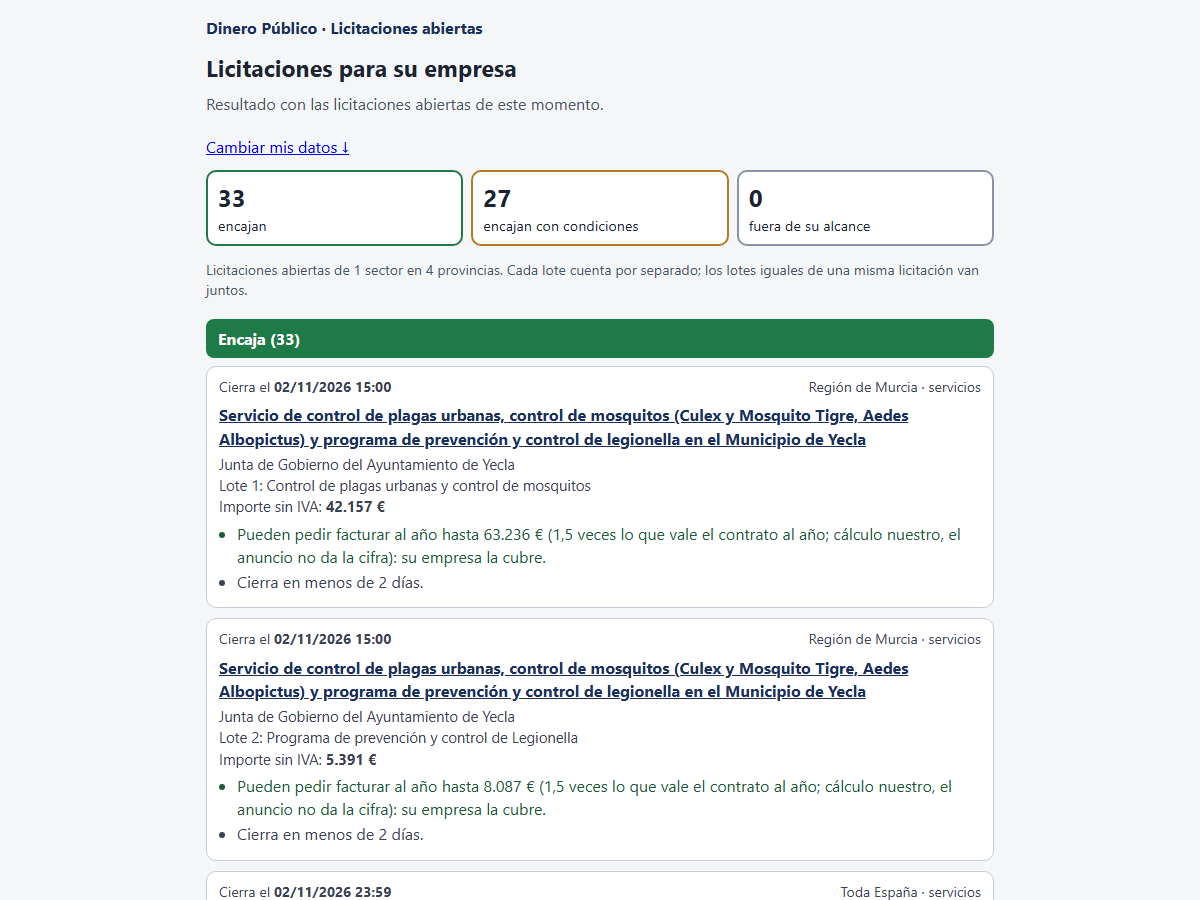
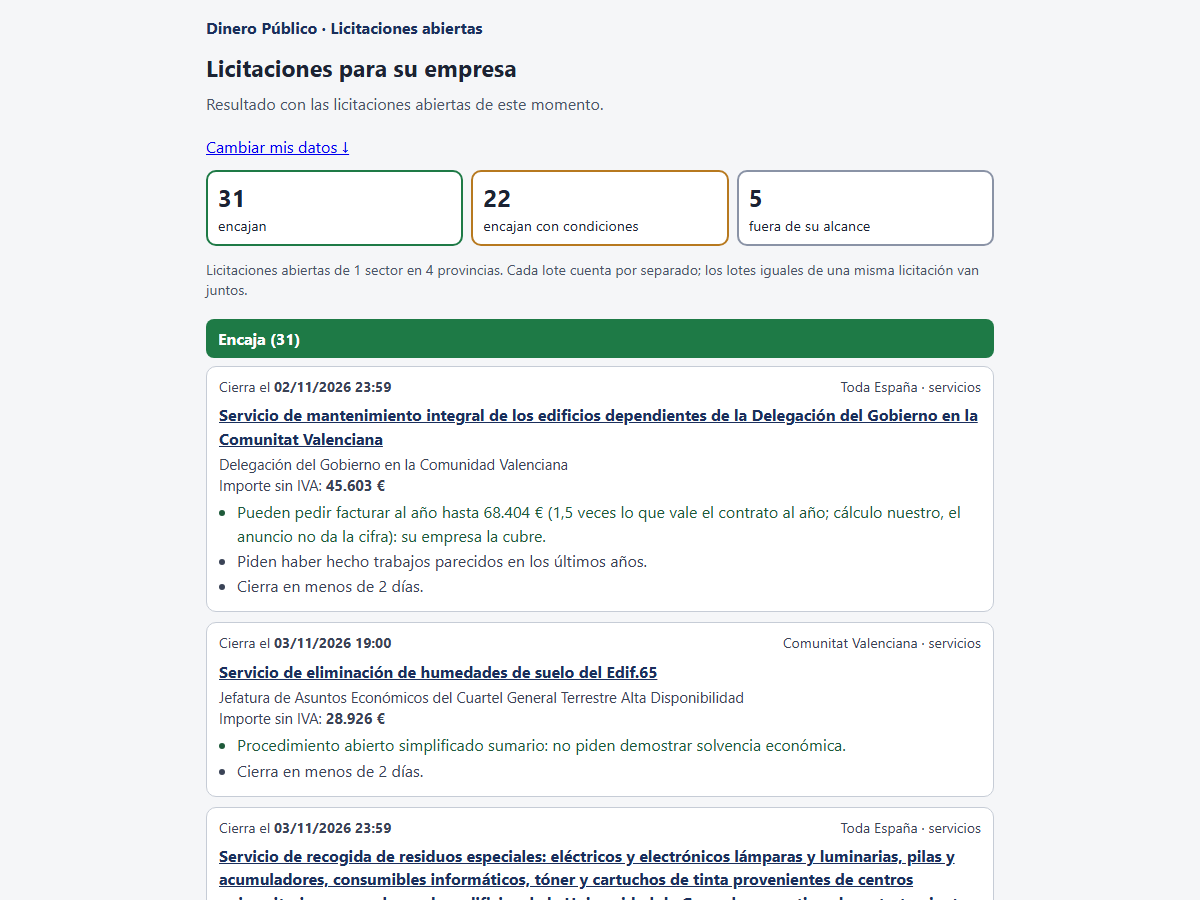
Embudo: «Desproporcionado (estimación nuestra)» a 0,75 x VAM y «El anuncio exige X €»
Sin cifra en el anuncio, si la facturación no llega ni a la mitad del
máximo legal, fuera de alcance con etiqueta y referencia a UTE / art. 75
LCSP. Con cifra, fuera con «El anuncio exige X €» y la desproporción no se
aplica. Pruebas (46), informe (§2 ter) y capturas.

Changed region(s): [[0.185, 0.4044, 0.8325, 1.0]]

diff --git a/backend/filtro_embudo.py b/backend/filtro_embudo.py
@@ -19,8 +19,9 @@ Criterios (la página los explica en lenguaje llano, ver CRITERIOS_HTML):
    anual medio (VAM) del contrato. VAM = presupuesto sin IVA del lote o del contrato / duración en años (mínimo 1).
    Si el anuncio trae la cifra exigida (ThresholdQuantity), manda esa. Facturación por tramos: si el límite bajo del
    tramo ya llega -> encaja; en medio -> CON CONDICIONES. Si ni el límite alto llega: FUERA DE ALCANCE solo cuando la
-   cifra viene del anuncio; si es el tope legal calculado por nosotros, CON CONDICIONES (el pliego puede pedir menos;
-   decisión de César, 02-11-2026). Abierto
+   cifra viene del anuncio ("El anuncio exige X €"); si es el tope legal calculado por nosotros, CON CONDICIONES (el
+   pliego puede pedir menos), salvo que no llegue ni a la mitad del tope (0,75 x VAM): FUERA DE ALCANCE con la
+   etiqueta "Desproporcionado (estimación nuestra)" (decisiones de César, 02-11-2026). Abierto
    simplificado sumario (art. 159.6 LCSP) no pide solvencia. Clasificación que cubre la exigida sustituye a la
    solvencia.
 3. Obras de valor estimado >= 500.000 EUR (art. 77.1.a LCSP): sin clasificación -> CON CONDICIONES "requiere
@@ -48,6 +49,9 @@ FUERA = "FUERA DE ALCANCE"
 GRUPOS = (ENCAJA, CONDICIONES, FUERA)
 MAX_FICHAS = 60                          # por grupo en la página (las demás se cuentan)
 DIAS_AVISO_CIERRE = 2                    # "cierra pronto" si quedan menos de estos días
+# Sin cifra en el anuncio: fuera de alcance si la facturación no llega ni a la mitad del máximo legal (0,75 x VAM)
+FACTOR_DESPROPORCION = F.FACTOR_SOLVENCIA / 2
+DESPROPORCIONADO = "Desproporcionado (estimación nuestra)"
 
 # Tramos de facturación: los mismos cortes que el motor (60.000 es el del sumario)
 TRAMOS_FACTURACION = F.TRAMOS_FACTURACION
@@ -194,6 +198,7 @@ def evaluar(lic, perfil, ahora):
         if perfil["importe_max"] is not None and importe > perfil["importe_max"]:
             continue
         fuera, cond, avisos, bien = [], [], [], []
+        etiqueta = ""
         vam = importe / anios
         req = dict(req_c, **req_l) if req_l else dict(req_c)
         if con_lotes and "umbral_eco" not in req_l:
@@ -232,7 +237,13 @@ def evaluar(lic, perfil, ahora):
         elif lo_f >= exigida:
             bien.append(pide + ": su empresa la cubre.")
         elif hi_f < exigida and umbral:
-            fuera.append(pide + ": su empresa no llega.")
+            fuera.append(f"El anuncio exige {F.eur(umbral)} de facturación anual: su empresa no llega.")
+        elif not umbral and hi_f < FACTOR_DESPROPORCION * vam:
+            # sin cifra en el anuncio, ni con la mitad del máximo legal llegaría (decisión de César, 02-11-2026)
+            etiqueta = DESPROPORCIONADO
+            fuera.append(f"Aunque el pliego pidiera la mitad del máximo legal ({F.eur(FACTOR_DESPROPORCION * vam)} "
+                         "al año), su empresa no llegaría; solo sería viable en UTE o apoyándose en la solvencia de "
+                         "otra empresa (art. 75 LCSP).")
         elif hi_f < exigida:
             # sin la cifra del anuncio solo sabemos el tope legal: el pliego puede pedir menos
             cond.append(pide + ": su empresa no llega a ese tope, pero puede que el pliego pida menos: revise la "
@@ -264,7 +275,7 @@ def evaluar(lic, perfil, ahora):
             "lote": (lote or {}).get("id"), "titulo_lote": (lote or {}).get("titulo"),
             "importe": importe, "vam": round(vam), "solvencia_exigida": round(exigida),
             "solvencia_del_anuncio": bool(umbral), "sumario": sumario,
-            "fuera": fuera, "condiciones": cond, "avisos": avisos, "bien": bien,
+            "etiqueta": etiqueta, "fuera": fuera, "condiciones": cond, "avisos": avisos, "bien": bien,
             # para F.agrupar_lotes (lotes iguales de una misma licitación en una sola ficha)
             "motivos": fuera + cond + avisos + bien,
         })
@@ -328,6 +339,7 @@ color:#fff;cursor:pointer}
 .ficha h3 a{color:#1b2f5c}
 .ficha ul{margin:4px 0 4px 18px;padding:0}.ficha li{margin:2px 0}
 .ficha .dato{font-size:.92rem;color:#3a4356}
+.etiqueta{display:inline-block;margin:6px 0 0;padding:1px 8px;border:1px solid #9b2c2c;border-radius:4px;color:#9b2c2c;font-size:.82rem;font-weight:700}
 li.no{color:#9b2c2c}li.cond{color:#8a5a12;font-weight:600}li.aviso{color:#3a4356}li.ok{color:#1e5a3a}
 details{margin:0 0 12px}summary{cursor:pointer;font-weight:700;padding:8px 0}
 .criterios{background:#fff;border:1px solid #d9dde5;border-radius:10px;padding:4px 14px;font-size:.93rem}
@@ -350,7 +362,9 @@ contrato entero no.</li>
 contrato al año (art. 87.3.a de la Ley de Contratos del Sector Público). Si el anuncio dice la cifra exacta, usamos
 esa. Si su facturación no llega ni en lo más alto de su tramo a la cifra que dice el anuncio, la licitación queda
 <b>fuera de alcance</b>. Si el anuncio no da la cifra, solo sabemos el máximo que permite la ley y el pliego puede
-pedir menos: entonces <b>encaja con condiciones</b> («revise la solvencia»). También si la cifra está dentro de su
+pedir menos: entonces <b>encaja con condiciones</b> («revise la solvencia»), salvo que su empresa no llegue ni a la
+mitad de ese máximo: entonces queda <b>fuera de alcance</b> con la etiqueta «Desproporcionado (estimación nuestra)»,
+porque solo sería viable en UTE o apoyándose en la solvencia de otra empresa (art. 75 de la misma ley). También si la cifra está dentro de su
 tramo. En el procedimiento simplificado sumario no se pide solvencia.</li>
 <li><b>Clasificación de contratista</b>: en obras de 500.000 € o más es obligatoria (art. 77 de la misma ley). Si no la
 tiene, se la enseñamos igual como <b>«encaja con condiciones: requiere clasificación»</b>, porque puede pedirla o ir
@@ -507,7 +521,8 @@ def _ficha_html(r):
               if r.get("url", "").startswith("https://") else _e(r["titulo"]))
     return (f'<div class="ficha"><div class="cab"><span>Cierra el <b>{_fecha(r["fin_plazo"])}</b></span>'
             f'<span>{_e(lugar)}{" · " + _e(tipo) if tipo else ""}</span></div>'
-            f'<h3>{enlace}</h3>'
+            + (f'<div class="etiqueta">{_e(r["etiqueta"])}</div>' if r.get("etiqueta") else "")
+            + f'<h3>{enlace}</h3>'
             f'<div class="dato">{_e(r["organo"])}</div>'
             + (f'<div class="dato">{lote}</div>' if lote else "")
             + f'<div class="dato">Importe sin IVA: <b>{F.eur(r["importe"])}</b>'

diff --git a/backend/filtro_embudo_prueba.py b/backend/filtro_embudo_prueba.py
@@ -78,8 +78,19 @@ ok(grupo(lic(presupuesto=150_000)) == E.CONDICIONES, "VAM 150k -> exige 225k, de
 r = E.evaluar(lic(presupuesto=250_000), perfil(), AHORA)[0]
 ok(r["grupo"] == E.CONDICIONES and not r["fuera"] and "revise la solvencia" in r["condiciones"][0],
    "VAM 250k, tope legal 375k > 300k pero el anuncio no da la cifra: con condiciones, «revise la solvencia»")
-ok(grupo(lic(presupuesto=250_000, req={"umbral_eco": 375_000})) == E.FUERA,
-   "la misma con 375k en el anuncio: fuera de alcance")
+r = E.evaluar(lic(presupuesto=250_000, req={"umbral_eco": 375_000}), perfil(), AHORA)[0]
+ok(r["grupo"] == E.FUERA and r["fuera"][0].startswith("El anuncio exige 375.000 €") and not r["etiqueta"],
+   "la misma con 375k en el anuncio: fuera, «El anuncio exige 375.000 €», sin etiqueta de estimación")
+# --- desproporcionado (sin cifra en el anuncio): fuera si no llega ni a 0,75 x VAM. Tramo 150-300k -> límite VAM 400k
+r = E.evaluar(lic(presupuesto=400_000), perfil(), AHORA)[0]
+ok(r["grupo"] == E.CONDICIONES and not r["etiqueta"], "VAM 400k: 0,75 x VAM = 300k, llega justo: con condiciones")
+r = E.evaluar(lic(presupuesto=401_000), perfil(), AHORA)[0]
+ok(r["grupo"] == E.FUERA and r["etiqueta"] == "Desproporcionado (estimación nuestra)",
+   "VAM 401k: 0,75 x VAM > 300k: fuera, etiqueta «Desproporcionado (estimación nuestra)»")
+ok(r["fuera"][0].startswith("Aunque el pliego pidiera la mitad del máximo legal") and "UTE" in r["fuera"][0]
+   and "art. 75 LCSP" in r["fuera"][0], "texto: mitad del máximo legal, UTE, solvencia de otra empresa (art. 75)")
+r = E.evaluar(lic(presupuesto=401_000, req={"umbral_eco": 200_000}), perfil(), AHORA)[0]
+ok(r["grupo"] != E.FUERA, "con la cifra del anuncio (200k) manda el anuncio aunque sea desproporcionado: no fuera")
 ok(grupo(lic(presupuesto=500_000, duracion_meses=60)) == E.ENCAJA, "500k en 5 años: VAM 100k, exige 150k: encaja")
 ok(grupo(lic(presupuesto=250_000, req={"umbral_eco": 100_000})) == E.ENCAJA, "umbral del anuncio 100k < 150k: encaja")
 ok(grupo(lic(presupuesto=50_000, req={"umbral_eco": 400_000})) == E.FUERA, "umbral del anuncio 400k > 300k: fuera")
@@ -101,12 +112,14 @@ r = E.evaluar(lic(**obra), perfil(**pc, clasificacion=["si"]), AHORA)[0]
 ok(r["grupo"] == E.CONDICIONES and "compruebe" in r["condiciones"][0], "dice que sí pero sin códigos: compruebe")
 ok(grupo(lic(**dict(obra, presupuesto=400_000, valor_estimado=400_000)), perfil(**pc)) == E.ENCAJA,
    "obra de 400k: no hace falta clasificación")
-ok(grupo(lic(**dict(obra, presupuesto=30_000_000, valor_estimado=30_000_000)),
-         perfil(cpv=["45"], facturacion=["150k-300k"], trabajadores=["1-5"])) == E.CONDICIONES,
-   "obra de 30 millones, 5 personas y 300k, sin cifra en el anuncio: con condiciones (revise la solvencia)")
-ok(grupo(lic(**dict(obra, presupuesto=30_000_000, valor_estimado=30_000_000, req={"umbral_eco": 45_000_000})),
-         perfil(cpv=["45"], facturacion=["150k-300k"], trabajadores=["1-5"])) == E.FUERA,
-   "la misma obra con la cifra en el anuncio: fuera de alcance")
+r = E.evaluar(lic(**dict(obra, presupuesto=30_000_000, valor_estimado=30_000_000)),
+             perfil(cpv=["45"], facturacion=["150k-300k"], trabajadores=["1-5"]), AHORA)[0]
+ok(r["grupo"] == E.FUERA and r["etiqueta"] == E.DESPROPORCIONADO,
+   "obra de 30 millones, 5 personas y 300k, sin cifra en el anuncio: fuera, desproporcionado")
+r = E.evaluar(lic(**dict(obra, presupuesto=30_000_000, valor_estimado=30_000_000, req={"umbral_eco": 45_000_000})),
+             perfil(cpv=["45"], facturacion=["150k-300k"], trabajadores=["1-5"]), AHORA)[0]
+ok(r["grupo"] == E.FUERA and not r["etiqueta"] and "El anuncio exige 45.000.000 €" in r["fuera"][0],
+   "la misma obra con la cifra en el anuncio: fuera, «El anuncio exige 45.000.000 €»")
 
 # --- trabajadores: solo aviso
 r = E.evaluar(lic(presupuesto=90_000), perfil(facturacion=[">10M"], trabajadores=["1-5"]), AHORA)[0]
@@ -120,15 +133,17 @@ lotes = [{"id": "1", "titulo": "Lote pequeño", "presupuesto": 50_000, "cpvs": [
          {"id": "2", "titulo": "Lote grande", "presupuesto": 2_000_000, "cpvs": ["90910000"], "nuts": "ES620"}]
 res = E.filtrar([lic(presupuesto=2_050_000, valor_estimado=2_050_000, lotes_detalle=lotes)], perfil(), AHORA)
 ok(len(res[E.ENCAJA]) == 1 and res[E.ENCAJA][0]["lote"] == "1", "lote pequeño encaja")
-ok(len(res[E.CONDICIONES]) == 1 and res[E.CONDICIONES][0]["lote"] == "2" and not res[E.FUERA],
-   "lote grande sin cifra en el anuncio: con condiciones")
+ok(len(res[E.FUERA]) == 1 and res[E.FUERA][0]["lote"] == "2" and res[E.FUERA][0]["etiqueta"] == E.DESPROPORCIONADO,
+   "lote grande (2M, VAM 2M) sin cifra en el anuncio: fuera, desproporcionado")
 lotes[1]["req"] = {"umbral_eco": 3_000_000}
 res = E.filtrar([lic(presupuesto=2_050_000, valor_estimado=2_050_000, lotes_detalle=lotes)], perfil(), AHORA)
-ok(len(res[E.FUERA]) == 1 and res[E.FUERA][0]["lote"] == "2", "lote grande con la cifra en su lote: fuera de alcance")
-res = E.filtrar([lic(presupuesto=2_050_000, valor_estimado=2_050_000, lotes_detalle=[dict(l) for l in lotes[:1]]
-                     + [{k: v for k, v in lotes[1].items() if k != "req"}], req={"umbral_eco": 3_000_000})],
+ok(len(res[E.FUERA]) == 1 and res[E.FUERA][0]["lote"] == "2" and not res[E.FUERA][0]["etiqueta"],
+   "lote grande con la cifra en su lote: fuera por el anuncio")
+lotes[1] = {"id": "2", "titulo": "Lote mediano", "presupuesto": 250_000, "cpvs": ["90910000"], "nuts": "ES620"}
+res = E.filtrar([lic(presupuesto=300_000, valor_estimado=300_000, lotes_detalle=lotes, req={"umbral_eco": 3_000_000})],
                 perfil(), AHORA)
-ok(not res[E.FUERA], "cifra solo del contrato entero (no del lote): no cuenta para el lote, no queda fuera")
+ok(not res[E.FUERA] and [r["lote"] for r in res[E.CONDICIONES]] == ["2"],
+   "cifra solo del contrato entero (no del lote): no cuenta para el lote mediano, queda con condiciones")
 
 # --- orden por fecha límite dentro del grupo
 res = E.filtrar([lic(id="B", fin_plazo="2026-11-25 10:00", presupuesto=10_000),

diff --git a/INFORME_FILTRO_LICITACIONES.md b/INFORME_FILTRO_LICITACIONES.md
@@ -24,7 +24,8 @@ Commits (pequeños, cada uno probado):
 | 6233676 | Motor y páginas del embudo (`backend/filtro_embudo.py`) |
 | 2bf3aad | Ruta en la web, apagada salvo `FILTRO_EMBUDO=1`, y pruebas (`backend/filtro_embudo_prueba.py`) |
 | 0b25393 | Este informe y las capturas (`docs/filtro_embudo/`) |
-| (02-11) | **Cambio pedido por César:** «fuera de alcance» por solvencia solo con la cifra del anuncio (§2 bis) |
+| 2c8ba87 (02-11) | **Cambio pedido por César:** «fuera de alcance» por solvencia solo con la cifra del anuncio (§2 bis) |
+| (02-11, 2.º) | **Cambio pedido por César:** «Desproporcionado (estimación nuestra)» a 0,75 × VAM y texto «El anuncio exige X €» (§2 ter) |
 
 ---
 
@@ -75,7 +76,7 @@ misma licitación van juntos en una ficha.
 | Sector | Algún CPV del contrato o del lote empieza por una división marcada | Si no, no sale |
 | Zona | Provincia del lugar de ejecución (NUTS; si falta, la de la fila o el CP del órgano); con solo la comunidad, entra si marcó alguna provincia de ella; «toda España» admite todo | Si no, no sale |
 | Importe | Importe sin IVA del lote o del contrato dentro del rango | Si no, no sale |
-| **Solvencia económica** (art. 87.3.a LCSP) | Pueden pedir hasta **1,5 × valor anual medio** (VAM = presupuesto sin IVA / duración en años, mínimo 1). **Si el anuncio da la cifra, manda esa.** | Tramo bajo ya llega → encaja. En medio → **con condiciones**. Ni el tope del tramo llega → **fuera de alcance solo si la cifra viene del anuncio**; si es nuestro cálculo (tope legal), **con condiciones: «puede que el pliego pida menos: revise la solvencia»** |
+| **Solvencia económica** (art. 87.3.a LCSP) | Pueden pedir hasta **1,5 × valor anual medio** (VAM = presupuesto sin IVA / duración en años, mínimo 1). **Si el anuncio da la cifra, manda esa.** | Tramo bajo ya llega → encaja. En medio → **con condiciones**. Ni el tope del tramo llega: con cifra del anuncio → **fuera de alcance** («El anuncio exige X € de facturación anual: su empresa no llega»); sin cifra → **con condiciones** («puede que el pliego pida menos: revise la solvencia»), salvo que no llegue ni a **0,75 × VAM** (la mitad del máximo legal) → **fuera de alcance**, etiqueta **«Desproporcionado (estimación nuestra)»** |
 | Procedimiento sumario (art. 159.6) | Abierto simplificado con VE < 80.000 € (obras) o < 60.000 € (resto) | No se pide solvencia |
 | **Clasificación** (art. 77 LCSP) | Obras con valor estimado ≥ 500.000 € (no sumario) | Sin clasificación → **con condiciones: «requiere clasificación»**. Nunca se oculta por esto solo. Si la suya cubre la pedida, encaja y además le sirve como solvencia |
 | **Trabajadores** | Si el VAM pasa de 100.000 € por persona del tope de su tramo | Solo un aviso «su plantilla puede quedarse corta». **No cambia el grupo** |
@@ -106,13 +107,44 @@ cifra del contrato entero no se aplica a sus lotes).
 
 **Ojo:** con esta regla, «fuera de alcance» queda casi vacío y una **obra de 30 millones para una empresa de 5
 personas y 300.000 € de facturación sale como «encaja con condiciones»** si el anuncio no trae la cifra (que es lo
-normal). Es lo contrario del ejemplo del encargo. Ver la decisión 8 en §6.
+normal). Es lo contrario del ejemplo del encargo. **Resuelto con el cambio siguiente (§2 ter).**
+
+## 2 ter. Cambio del 02-11 (2.º): «Desproporcionado (estimación nuestra)»
+
+Decisión de César. Solvencia, de arriba abajo:
+
+1. **Con cifra en el anuncio** y la empresa no llega ni con el tope de su tramo → **fuera de alcance**, texto «El
+   anuncio exige X € de facturación anual: su empresa no llega.» Sin etiqueta. La cifra del anuncio siempre manda:
+   si el anuncio pide poco, no se aplica la regla de desproporción aunque el contrato sea grande.
+2. **Sin cifra en el anuncio** y la empresa no llega ni a **0,75 × VAM** (la mitad del máximo legal) → **fuera de
+   alcance**, con la etiqueta **«Desproporcionado (estimación nuestra)»** encima del título y el texto: «Aunque el
+   pliego pidiera la mitad del máximo legal (X € al año), su empresa no llegaría; solo sería viable en UTE o
+   apoyándose en la solvencia de otra empresa (art. 75 LCSP).»
+3. **Sin cifra**, entre 0,75 y 1,5 × VAM → **con condiciones** («revise la solvencia»), como en §2 bis.
+
+Se compara con el **tope** del tramo de facturación (lo más favorable para la empresa). Ejemplo, tramo 150-300k:
+un contrato de 400.000 € al año queda con condiciones (0,75 × 400.000 = 300.000, llega justo); uno de 401.000 €,
+desproporcionado. La obra de 30 millones para 5 personas vuelve a salir **fuera de alcance (desproporcionado)**.
+
+**Efecto medido** (misma copia del 30-10):
+
+| Perfil inventado | Original | §2 bis | Ahora |
+|---|---|---|---|
+| Limpieza, 1-5 personas, Murcia, 150-300k | 10 / 6 / 5 | 10 / 11 / 0 | 10 / 9 / **2** |
+| Constructora 11-25, Murcia + C. Valenciana, 1,5-3M, sin clasificación | 181 / 32 / 16 | 181 / 47 / 1 | 181 / 42 / **6** |
+| Constructora clasificada, toda España, 3-10M | 1.277 / 285 / 26 | 1.277 / 309 / 2 | 1.277 / 299 / **12** |
+| Informática 1-5, toda España, <60k, 10k-200k | 62 / 69 / 61 | 62 / 124 / 6 | 62 / 104 / **26** |
+| Perfil de las capturas (limpieza, Murcia + C. Valenciana) | 33 / 14 / 13 | 33 / 27 / 0 | 33 / 22 / **5** (las 5 desproporcionadas) |
+
+Al escribir las pruebas apareció un fallo, ya corregido antes del commit: con la cifra del anuncio dentro del tramo
+(por ejemplo 200.000 € para una empresa de 150-300k), la regla de desproporción se aplicaba igualmente y la sacaba
+de alcance. Ahora solo se aplica cuando el anuncio no trae la cifra.
 
 ## 3. Capturas
 
 Con la copia de datos del 30-10 y un perfil inventado (limpieza, Murcia + Comunitat Valenciana, 150-300k, 1-5
-personas, sin clasificación): **33 encajan, 27 con condiciones, 0 fuera de alcance** (antes del cambio del 02-11:
-33 / 14 / 13).
+personas, sin clasificación), captura hecha el 02-11: **31 encajan, 22 con condiciones, 5 fuera de alcance** (las 5
+«desproporcionadas»; en la tabla de §2 ter salen 33 porque se midió la noche del 01-11, antes de que cerraran 2).
 
 | | |
 |---|---|
@@ -120,6 +152,8 @@ personas, sin clasificación): **33 encajan, 27 con condiciones, 0 fuera de alca
 | Formulario (móvil, 375 px) | `docs/filtro_embudo/1_formulario_movil.png` |
 | Resultado (escritorio) | `docs/filtro_embudo/3_resultado_escritorio.png` |
 | Resultado (móvil) | `docs/filtro_embudo/3_resultado_movil.png` |
+| Ficha «Desproporcionado» (escritorio) | `docs/filtro_embudo/5_fuera_desproporcionado_escritorio.png` |
+| Ficha «Desproporcionado» (móvil) | `docs/filtro_embudo/5_fuera_desproporcionado_movil.png` |
 
 Las capturas de página entera (16.000 px de alto) están fuera del repositorio, en el scratchpad de esta sesión
 (`…/1cee7279-…/scratchpad/capturas/`).
@@ -128,8 +162,9 @@ Las capturas de página entera (16.000 px de alto) están fuera del repositorio,
 
 ## 4. Cómo probarlo en local
 
-**Pruebas del motor** (rápidas, sin web ni base de datos; 42 casos inventados, entre ellos «obra de 30 millones para
-una empresa de 5 personas»: con condiciones sin cifra en el anuncio, fuera de alcance con ella):
+**Pruebas del motor** (rápidas, sin web ni base de datos; 46 casos inventados, entre ellos «obra de 30 millones para
+una empresa de 5 personas»: desproporcionado sin cifra en el anuncio, «El anuncio exige…» con ella; y el límite exacto
+de 0,75 × VAM):
 
 ```
 cd Desktop/wt_filtro_embudo
@@ -196,11 +231,8 @@ incluidas cookies, no-store, socios.db y barra horizontal) es `prueba_embudo_web
 6. **Traducciones gl/ca/eu**: la página responde con prefijo pero en castellano.
 7. **Texto legal**: la página dice «Es una ayuda, no un informe jurídico». Que lo mire el abogado junto con lo del
    PR #6.
-8. **¿Un tope para lo desproporcionado?** Con la regla del 02-11, sin cifra en el anuncio nada sale de alcance por
-   solvencia (la obra de 30 millones para 5 personas queda «con condiciones»). Si quieres recuperar el «no podemos
-   ofrecer una licitación de 30 millones a una empresa con 5 trabajadores», una opción sería: fuera de alcance también
-   cuando la empresa no llegaría ni aunque el pliego pidiera la mitad del tope (0,75 × VAM). No lo he hecho: es tu
-   decisión.
+8. ~~¿Un tope para lo desproporcionado?~~ **Decidido el 02-11**: 0,75 × VAM con la etiqueta «Desproporcionado
+   (estimación nuestra)» (§2 ter).
 
 ---
 
@@ -210,7 +242,7 @@ Medido en la copia del 30-10 (4.711 licitaciones abiertas con requisitos leídos
 
 - **Cifra de solvencia del pliego**: solo **382** (8 %) la traen en el anuncio. En el resto se usa el tope legal
   (1,5 × VAM), la ficha lo dice («cálculo nuestro, el anuncio no da la cifra») y, desde el 02-11, si no llega se
-  queda en «con condiciones», no fuera. El pliego (PCAP) no lo leemos; esa
+  queda en «con condiciones», salvo que no llegue ni a la mitad (desproporcionado, §2 ter). El pliego (PCAP) no lo leemos; esa
   sería la «fase 2» ya apuntada en el PR #6.
 - **Clasificación pedida**: 181 de las 270 obras ≥ 500.000 € dicen el grupo; en las otras 89 solo puedo calcular la
   categoría a partir del VAM y la ficha dice «el anuncio no dice el grupo».
